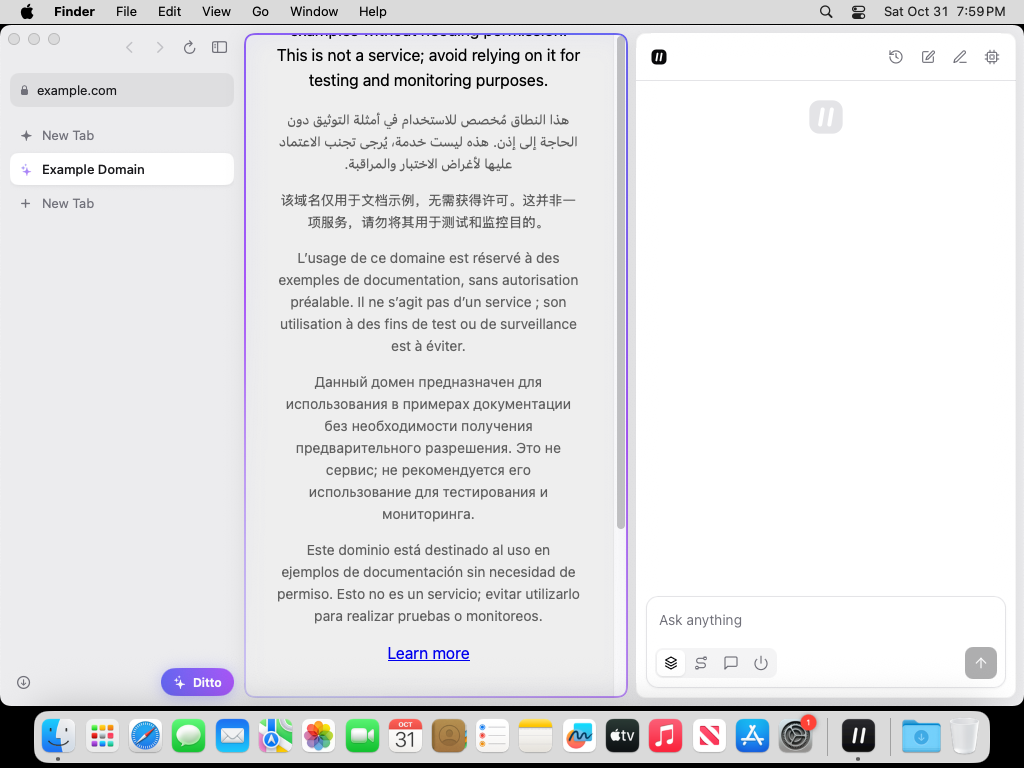
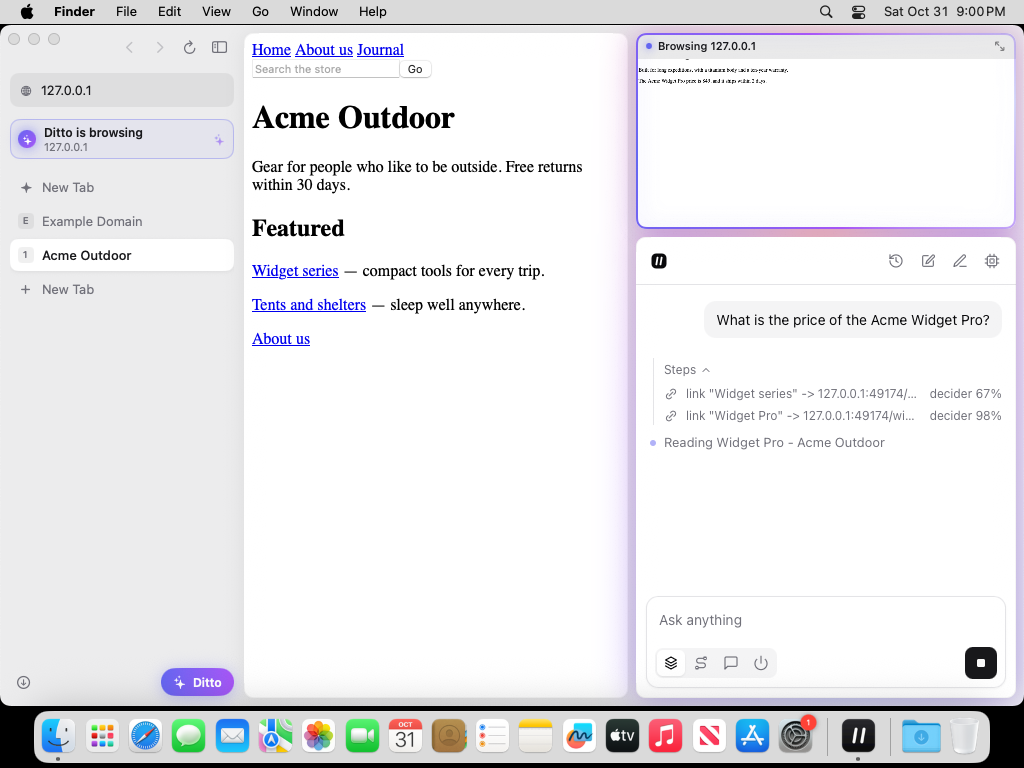
Panel: quick starts, live status, glow while working; tidier sidebar
- A new chat offers "Summarize this page", "Key facts on this page" and
  "Remember something…", centred under the logo.
- The live status shimmers and the field glows while Ditto works, like
  the new tab page's field; sources show the page's title and host.
- Sidebar: no "New Tab" row under a tab that already is one.
- Ditto's tab is drawn 1000 px wide in the live view (readable scaled).
- New tab page: a globe for sites that are numbers (127.0.0.1).
- YouTube: caption tracks marked exp=xpe (empty without the player's
  token) go straight to the transcript panel.
- README: screenshots from the v0.4.0 self-test on a Mac.

Claude-Session: https://claude.ai/code/session_01VapJydPrDu1F12ZRhmmqAj

diff --git a/web/app.ts b/web/app.ts
@@ -199,8 +199,9 @@ function renderSources(sources: Array<{url: string, title: string}>): HTMLElemen
     return null;
   }
   return h('div', {class: 'sources'}, ...sources.map((s, i) =>
-      h('a', {href: s.url, target: '_blank', title: s.title || s.url},
-        h('b', {}, String(i + 1)), h('span', {}, hostOf(s.url)))));
+      h('a', {href: s.url, target: '_blank', title: s.url},
+        h('b', {}, String(i + 1)), h('span', {}, s.title || hostOf(s.url)),
+        s.title ? h('span', {class: 'host'}, hostOf(s.url)) : null)));
 }
 
 function renderTrace(lines: string[], open = false): HTMLElement|null {
@@ -242,11 +243,35 @@ function renderTurn(turn: Turn): HTMLElement[] {
   ];
 }
 
+// A new chat: what Ditto can do with the page in front of the user.
+const STARTERS: Array<{icon: IconName, label: string, run: () => void}> = [
+  {icon: 'text', label: 'Summarize this page', run: () => void ask('tl;dr this page')},
+  {icon: 'note', label: 'Key facts on this page',
+   run: () => void ask('List the key facts on this page')},
+  {icon: 'memory', label: 'Remember something…', run: () => {
+    const prompt = $<HTMLTextAreaElement>('prompt');
+    prompt.value = 'Remember that ';
+    prompt.focus();
+    renderComposer();
+  }},
+];
+
+function emptyState(): HTMLElement {
+  return h('div', {class: 'empty'},
+           icon('logo', 40),
+           h('p', {}, 'Ask about this page, or anything.'),
+           h('div', {class: 'starters'}, ...STARTERS.map(starter => {
+             const button = h('button', {type: 'button'}, icon(starter.icon, 14), starter.label);
+             button.addEventListener('click', starter.run);
+             return button;
+           })));
+}
+
 function renderThread() {
   const chat = chatId ? store.get(chatId) : undefined;
   const thread = $('thread');
   if (!chat?.turns.length) {
-    thread.replaceChildren(h('div', {class: 'empty'}, icon('logo', 40)));
+    thread.replaceChildren(emptyState());
     return;
   }
   thread.replaceChildren(...chat.turns.flatMap(renderTurn));
@@ -290,7 +315,7 @@ async function ask(question: string) {
   const traceBox = h('details', {class: 'steps', open: true},
                      h('summary', {}, 'Steps', icon('chevron', 12)), steps);
   traceBox.hidden = true;
-  const statusText = h('span', {}, 'Starting');
+  const statusText = h('span', {class: 'shimmer'}, 'Starting');
   const live = h('div', {class: 'live'}, h('span', {class: 'dot'}), statusText);
   const text = h('div', {class: 'text'});
   const reply = h('div', {class: 'reply'}, traceBox, live, text);
@@ -395,6 +420,7 @@ async function ask(question: string) {
 // ---- Composer --------------------------------------------------------------
 
 function renderComposer() {
+  $('composer').classList.toggle('working', !!running);
   $('modes').replaceChildren(...MODES.map(m => {
     const button = iconButton(m.icon, m.label, () => setMode(m.mode));
     button.setAttribute('aria-pressed', String(settings.mode === m.mode));

diff --git a/web/ditto_agent.css b/web/ditto_agent.css
@@ -222,14 +222,64 @@ select {
   display: flex;
   flex-direction: column;
   gap: 20px;
+  min-height: 100%;
   padding: 16px 14px 24px;
 }
 
 .empty {
   display: grid;
-  place-items: center;
-  height: 100%;
-  color: var(--border);
+  flex: 1;
+  align-content: center;
+  justify-items: center;
+  gap: 12px;
+  min-height: 100%;
+  color: var(--muted-foreground);
+  text-align: center;
+}
+
+.empty > .icon {
+  color: var(--foreground);
+  filter: drop-shadow(0 6px 18px rgb(99 102 241 / 0.25));
+}
+
+.empty p {
+  margin: 0;
+  font-size: 13px;
+}
+
+.starters {
+  display: grid;
+  gap: 6px;
+  width: min(260px, 100%);
+  margin-top: 4px;
+}
+
+.starters button {
+  display: flex;
+  align-items: center;
+  gap: 8px;
+  height: 34px;
+  padding: 0 12px;
+  border: 1px solid var(--border);
+  border-radius: 10px;
+  background: var(--background);
+  color: var(--foreground);
+  font: inherit;
+  font-size: 13px;
+  text-align: left;
+  cursor: pointer;
+  transition:
+    border-color 160ms ease,
+    transform 160ms ease;
+}
+
+.starters button .icon {
+  color: var(--accent);
+}
+
+.starters button:hover {
+  border-color: var(--ring);
+  transform: translateY(-1px);
 }
 
 .question {
@@ -286,6 +336,25 @@ select {
   gap: 8px;
   color: var(--muted-foreground);
   font-size: 13px;
+}
+
+.live .shimmer {
+  background: linear-gradient(90deg, var(--muted-foreground) 30%, var(--foreground) 50%,
+      var(--muted-foreground) 70%) 0 0 / 200% 100%;
+  background-clip: text;
+  -webkit-background-clip: text;
+  color: transparent;
+  animation: shimmer 1.6s linear infinite;
+}
+
+@keyframes shimmer {
+  from {
+    background-position: 100% 0;
+  }
+
+  to {
+    background-position: -100% 0;
+  }
 }
 
 .live .dot {
@@ -384,9 +453,17 @@ select {
 }
 
 .sources a span {
+  max-width: 220px;
   white-space: nowrap;
   overflow: hidden;
   text-overflow: ellipsis;
+}
+
+.sources a .host {
+  flex: none;
+  max-width: 120px;
+  color: var(--muted-foreground);
+  opacity: 0.7;
 }
 
 .sources b {
@@ -396,11 +473,30 @@ select {
 
 /* Composer */
 .composer {
+  position: relative;
   margin: 0 10px 10px;
   border: 1px solid var(--input);
   border-radius: 12px;
   background: var(--background);
   box-shadow: 0 1px 2px rgb(0 0 0 / 0.04);
+}
+
+/* While Ditto works: the same moving glow as the new tab page's field. */
+.composer::before {
+  content: '';
+  position: absolute;
+  z-index: -1;
+  inset: -1px;
+  border-radius: 13px;
+  background: linear-gradient(120deg, #6366f1, #a855f7, #38bdf8, #6366f1) 0 0 / 300% 100%;
+  filter: blur(6px);
+  opacity: 0;
+  transition: opacity 300ms ease;
+  animation: sheen 6s linear infinite;
+}
+
+.composer.working::before {
+  opacity: 0.5;
 }
 
 .composer:focus-within {
@@ -1079,6 +1175,8 @@ select {
 }
 
 @media (prefers-reduced-motion: reduce) {
+  .live .shimmer,
+  .composer::before,
   .aurora,
   .command-wrap::before,
   .hero,

diff --git a/agent/test/agent.e2e.test.ts b/agent/test/agent.e2e.test.ts
@@ -314,11 +314,15 @@ test('a YouTube video: the caption track, else the transcript panel', async () =
     {segs: [{utf8: 'we mix flour, water and salt, fold the dough four times, '}]},
     {segs: [{utf8: 'and bake it at 250 degrees for forty minutes until it sounds hollow.'}]},
   ]});
+  let page = watch;
+  let fetched = 0;
   await browser.page.route('https://www.youtube.com/**', (route: any) => {
     const url = new URL(route.request().url());
-    return url.pathname === '/api/timedtext' ?
-        route.fulfill({body: captions, contentType: 'application/json'}) :
-        route.fulfill({body: watch, contentType: 'text/html'});
+    if (url.pathname === '/api/timedtext') {
+      ++fetched;
+      return route.fulfill({body: captions, contentType: 'application/json'});
+    }
+    return route.fulfill({body: page, contentType: 'text/html'});
   });
   try {
     const video = 'https://www.youtube.com/watch?v=sourdough';
@@ -328,6 +332,12 @@ test('a YouTube video: the caption track, else the transcript panel', async () =
     captions = '';
     ({result} = await runAgent('hybrid', 'what is this video about?', video));
     assert.match(result.answer, /Feed the starter/);
+    // Tracks marked exp=xpe are known to need the token: not even tried.
+    page = watch.replace('lang=en', 'lang=en&exp=xpe');
+    fetched = 0;
+    ({result} = await runAgent('hybrid', 'tl;dr', video));
+    assert.match(result.answer, /Feed the starter/);
+    assert.equal(fetched, 0);
   } finally {
     await browser.page.unrouteAll();
   }

diff --git a/web/home.ts b/web/home.ts
@@ -50,9 +50,12 @@ function greeting(now = new Date()): string {
       hour < 18 ? 'Good afternoon' : 'Good evening';
 }
 
-// The site's icon, or its first letter while (or if) there is none.
+// The site's icon, or its first letter while (or if) there is none; a
+// globe for addresses that are numbers.
 function siteIcon(host: string, size: number): HTMLElement {
-  const letter = h('span', {class: 'letter'}, host.slice(0, 1).toUpperCase());
+  const numeric = /^(localhost|[\d.:]+|\[[\da-f:]+\])$/i.test(host);
+  const letter = numeric ? h('span', {class: 'letter'}, icon('globe', 18)) :
+      h('span', {class: 'letter'}, host.slice(0, 1).toUpperCase());
   const img = h('img', {src: `https://${host}/favicon.ico`, alt: '', width: String(size),
                         height: String(size), loading: 'lazy'});
   img.addEventListener('load', () => letter.remove());

diff --git a/app/Sources/Ditto/Views/Sidebar.swift b/app/Sources/Ditto/Views/Sidebar.swift
@@ -26,7 +26,11 @@ struct Sidebar: View {
                 insertion: .move(edge: .top).combined(with: .opacity),
                 removal: .opacity.combined(with: .scale(scale: 0.94))))
           }
-          NewTabRow()
+          if let last = browser.userTabs.last {
+            NewTabSlot(last: last)
+          } else {
+            NewTabRow()
+          }
         }
       }
       Spacer(minLength: 0)
@@ -258,6 +262,17 @@ struct PulsingSparkle: View {
       .onAppear {
         withAnimation(.easeInOut(duration: 0.8).repeatForever(autoreverses: true)) { on = true }
       }
+  }
+}
+
+// "New Tab" under the tabs, unless the last tab already is one.
+struct NewTabSlot: View {
+  @ObservedObject var last: BrowserTab
+
+  var body: some View {
+    if !last.isHome {
+      NewTabRow()
+    }
   }
 }
 

diff --git a/agent/test/webui.e2e.test.ts b/agent/test/webui.e2e.test.ts
@@ -70,7 +70,13 @@ const ask = async (question: string) => {
 };
 
 test('starts empty, with icon controls and the hybrid mode', async () => {
-  await ui.locator('.empty .icon').waitFor();
+  await ui.locator('.empty > .icon').waitFor();
+  // Quick starts for the page in front; "Remember" only fills the field.
+  assert.deepEqual(await ui.locator('.starters button').allTextContents(),
+                   ['Summarize this page', 'Key facts on this page', 'Remember something…']);
+  await ui.click('.starters button:has-text("Remember")');
+  assert.equal(await ui.inputValue('#prompt'), 'Remember that ');
+  await ui.fill('#prompt', '');
   for (const label of ['History', 'New chat', 'Models', 'Send']) {
     assert.equal(await ui.locator(`[aria-label="${label}"]`).count(), 1, label);
   }

diff --git a/agent/src/browser/media.ts b/agent/src/browser/media.ts
@@ -41,7 +41,9 @@ export async function collectMedia(maxText: number): Promise<MediaText|null> {
     // Prefer captions written by people over automatic ones.
     const track = tracks.find(t => t.languageCode?.startsWith(lang) && t.kind !== 'asr') ??
         tracks.find(t => t.languageCode?.startsWith(lang)) ?? tracks[0];
-    if (track) {
+    // Tracks marked exp=xpe answer an empty file without the player's
+    // proof-of-origin token: go straight to the transcript panel.
+    if (track && !/[?&]exp=xpe(&|$)/.test(track.baseUrl)) {
       try {
         const body = await (await fetch(`${track.baseUrl}&fmt=json3`)).text();
         const data = body ? JSON.parse(body) as

diff --git a/app/Sources/Ditto/Views/Components.swift b/app/Sources/Ditto/Views/Components.swift
@@ -144,7 +144,8 @@ struct Toast: View {
 // should: AppKit maps them through the same scaling.
 struct ScaledWebViewHost: NSViewRepresentable {
   let webView: WKWebView
-  var canvasWidth: CGFloat = 1180
+  // Wide enough for sites' desktop layouts, narrow enough to read scaled.
+  var canvasWidth: CGFloat = 1000
 
   func makeNSView(context: Context) -> ScaledContainer {
     ScaledContainer(canvasWidth: canvasWidth)

diff --git a/README.md b/README.md
@@ -25,7 +25,7 @@ v0.3.0 were Chromium-based previews.
 
 ## The browser
 
-![Ditto with the agent panel open, driving a tab](docs/screenshots/agent.png)
+![Ditto answering in its own tab: the live view and the panel on the right, the user's tab in front](docs/screenshots/agent.png)
 
 Ditto is a native Mac app (SwiftUI) on WebKit, Safari's engine: a small
 app, quick to start, light on memory and battery.
@@ -42,6 +42,8 @@ app, quick to start, light on memory and battery.
   trending in your region, and, picked out first, the trends that match
   what you read. The matching runs on your Mac from your history and
   Ditto's notes; nothing about you is sent.
+
+  ![The new tab page: the field, and what is trending](docs/screenshots/home.png)
 - **Light on memory.** Tabs you have not looked at for 20 minutes sleep
   (their page is dropped, their place and history kept) and wake when you
   click them; under memory pressure they sleep at once. Tabs playing sound
@@ -113,7 +115,7 @@ How it fits together: [docs/ARCHITECTURE.md](docs/ARCHITECTURE.md).
 
 ```sh
 cd agent && npm ci && cd ..
-scripts/build-app.sh arm64 v0.3.0      # or x86_64; needs Xcode 16+ and Node 22
+scripts/build-app.sh arm64 v0.4.0      # or x86_64; needs Xcode 16+ and Node 22
 open build/app-arm64/Ditto.app
 scripts/smoke-app.sh build/app-arm64/Ditto.app   # the app's self-test
 ```
@@ -134,7 +136,7 @@ model runtime that speaks llama-server's APIs.
 
 ## What is verified
 
-- **71 automated tests** (`cd agent && npm test`): the agent in all modes;
+- **72 automated tests** (`cd agent && npm test`): the agent in all modes;
   reading videos and long pages; dropdowns, cookie walls, ads, overlays and
   hijacked links; memory, bookmarks and the approval gate; the panel and
   new tab page (suggestions, trending, for you); the shield and
